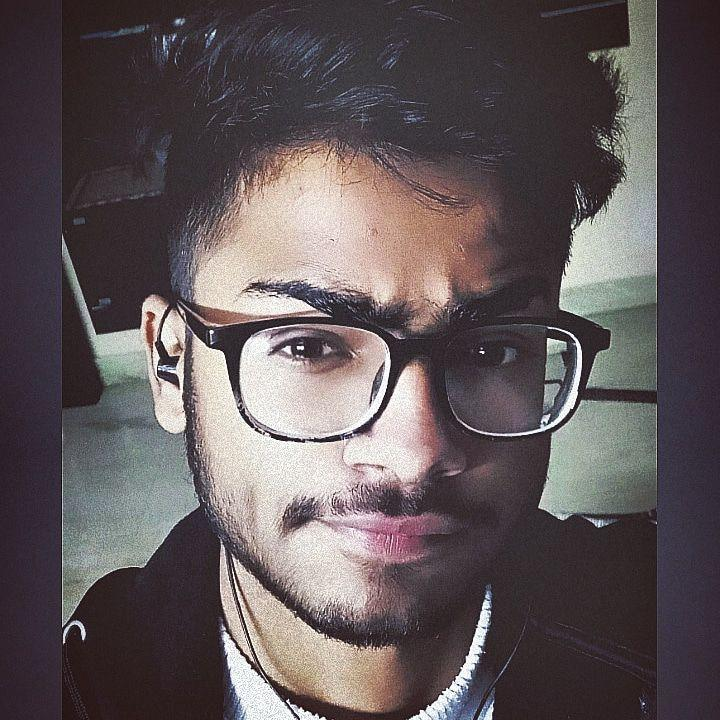
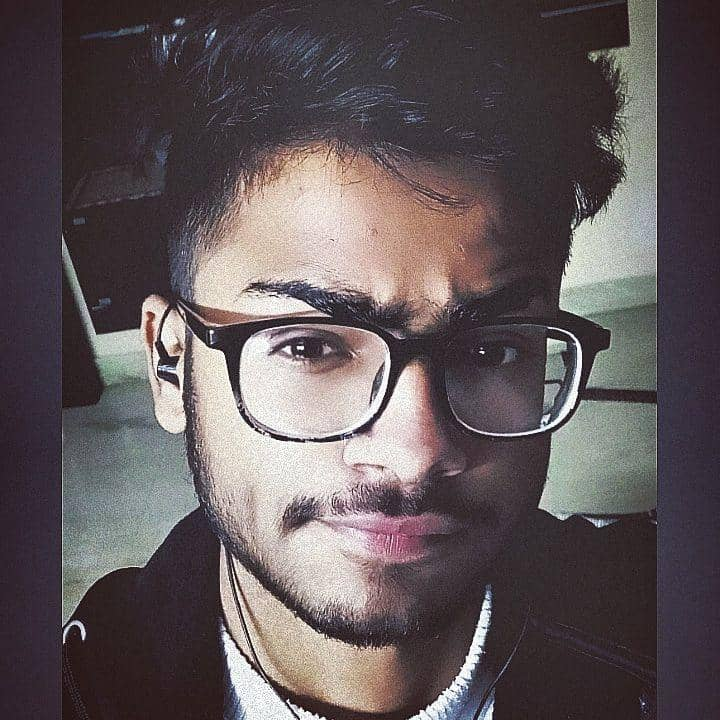
optimised image files

diff --git a/index.html b/index.html
@@ -34,9 +34,6 @@
       <!-- logo -->
 
       <div class="nav-header">
-        <a href="#">
-          <img src="./images/GNlogo.png" class="nav-logo" alt="GN" />
-        </a>
         <button class="nav-btn" id="nav-btn">
           <i class="fas fa-bars"></i>
         </button>
@@ -219,7 +216,6 @@
     </div>
     <!--end of section title -->
     <div class="section-center projects-center">
-      <div class="project-container"><canvas id="background"></canvas></div>
       <div class="card-list">
         <div class="project-card" id="card-1">
           <div class="project-img">
@@ -293,46 +289,7 @@
         </div>
         <div class="project-card" id="card-3">
           <div class="project-img">
-            <img src="./projects/project-3.png" alt="Calculator project">
-          </div>
-          <div class="header">
-            <h2>Calculator</h2>
-            <div class="title">Tech Used - Vanilla Javascript</div>
-          </div>
-          <div class="colorband"></div>
-          <div class="desc">Calculator made using Html, CSS and Javascript which can perform all the basic math
-            operations.</div>
-          <div class="actions">
-            <a href="https://garv-calculator.netlify.app/" target="_blank" rel="noopener noreferrer">
-              <button>
-                <span>
-                  <i class="far fa-window-restore"></i>
-                  <span>
-                    Live Site
-                  </span>
-                </span>
-              </button>
-            </a>
-            <a href="https://github.com/Garvnanwani/Calculator-with-Javascript" target="_blank"
-              rel="noopener noreferrer">
-              <button>
-                <span>
-                  <i class="fas fa-github-alt"></i>
-                  <span>
-                    Repo Link
-                  </span>
-                </span>
-              </button>
-            </a>
-          </div>
-        </div>
-      </div>
-
-      <div class="project-container"><canvas id="background"></canvas></div>
-      <div class="card-list">
-        <div class="project-card" id="card-1">
-          <div class="project-img">
-            <img src="./projects/project-4.jpg" alt="Dictionary project">
+            <img src="./projects/project-3.jpg" alt="Dictionary project">
           </div>
           <div class="header">
             <h2>Dictionary App</h2>
@@ -354,6 +311,41 @@
               </button>
             </a>
             <a href="https://github.com/Garvnanwani/dictionary-app" target="_blank" rel="noopener noreferrer">
+              <button>
+                <span>
+                  <i class="fas fa-github-alt"></i>
+                  <span>
+                    Repo Link
+                  </span>
+                </span>
+              </button>
+            </a>
+          </div>
+        </div>
+        <div class="project-card" id="card-4">
+          <div class="project-img">
+            <img src="./projects/project-4.png" alt="Calculator project">
+          </div>
+          <div class="header">
+            <h2>Calculator</h2>
+            <div class="title">Tech Used - Vanilla Javascript</div>
+          </div>
+          <div class="colorband"></div>
+          <div class="desc">Calculator made using Html, CSS and Javascript which can perform all the basic math
+            operations.</div>
+          <div class="actions">
+            <a href="https://garv-calculator.netlify.app/" target="_blank" rel="noopener noreferrer">
+              <button>
+                <span>
+                  <i class="far fa-window-restore"></i>
+                  <span>
+                    Live Site
+                  </span>
+                </span>
+              </button>
+            </a>
+            <a href="https://github.com/Garvnanwani/Calculator-with-Javascript" target="_blank"
+              rel="noopener noreferrer">
               <button>
                 <span>
                   <i class="fas fa-github-alt"></i>
@@ -642,7 +634,7 @@
     </p>
   </footer>
 
-  <script src="./js/app.js"></script>
+  <script async src="./js/app.js"></script>
 </body>
 
 </html>

diff --git a/css/style.css b/css/style.css
@@ -500,16 +500,6 @@ Sidebar
     color: var(--clr-white) !important;
 }
 
-#background {
-    display: block;
-    position: absolute;
-    top: 0;
-    left: 0;
-    z-index: -1;
-    width: 100%;
-    height: 100%;
-}
-
 .card-list {
     width: 100%;
     margin: 5rem auto 2rem;
